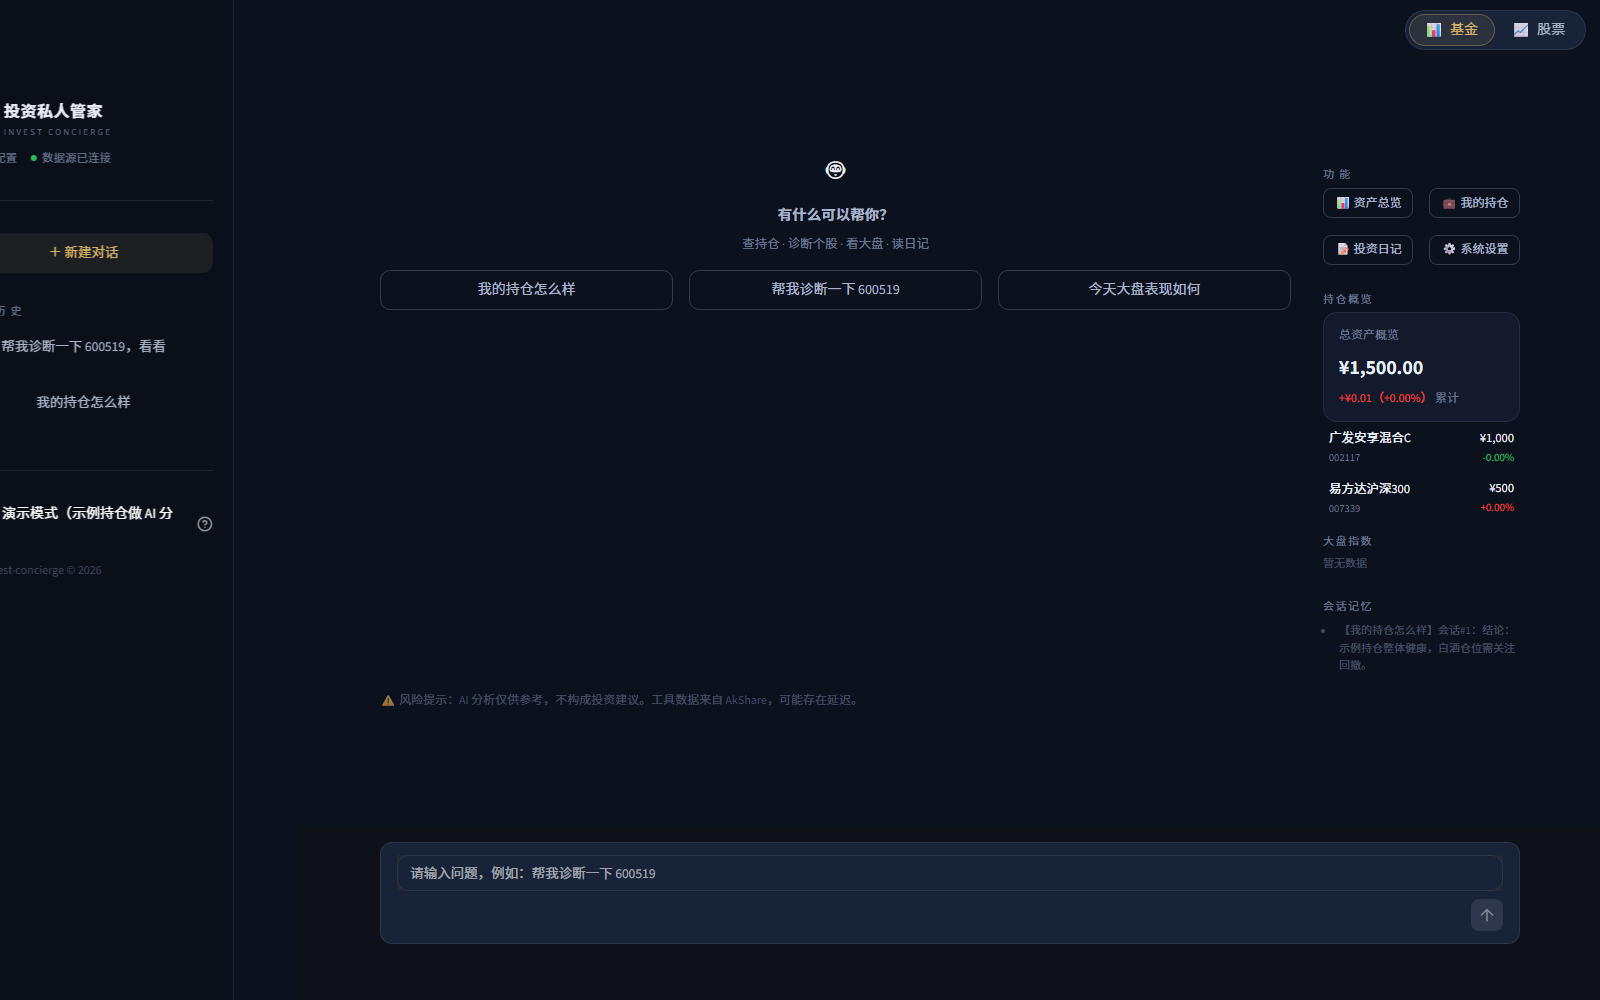
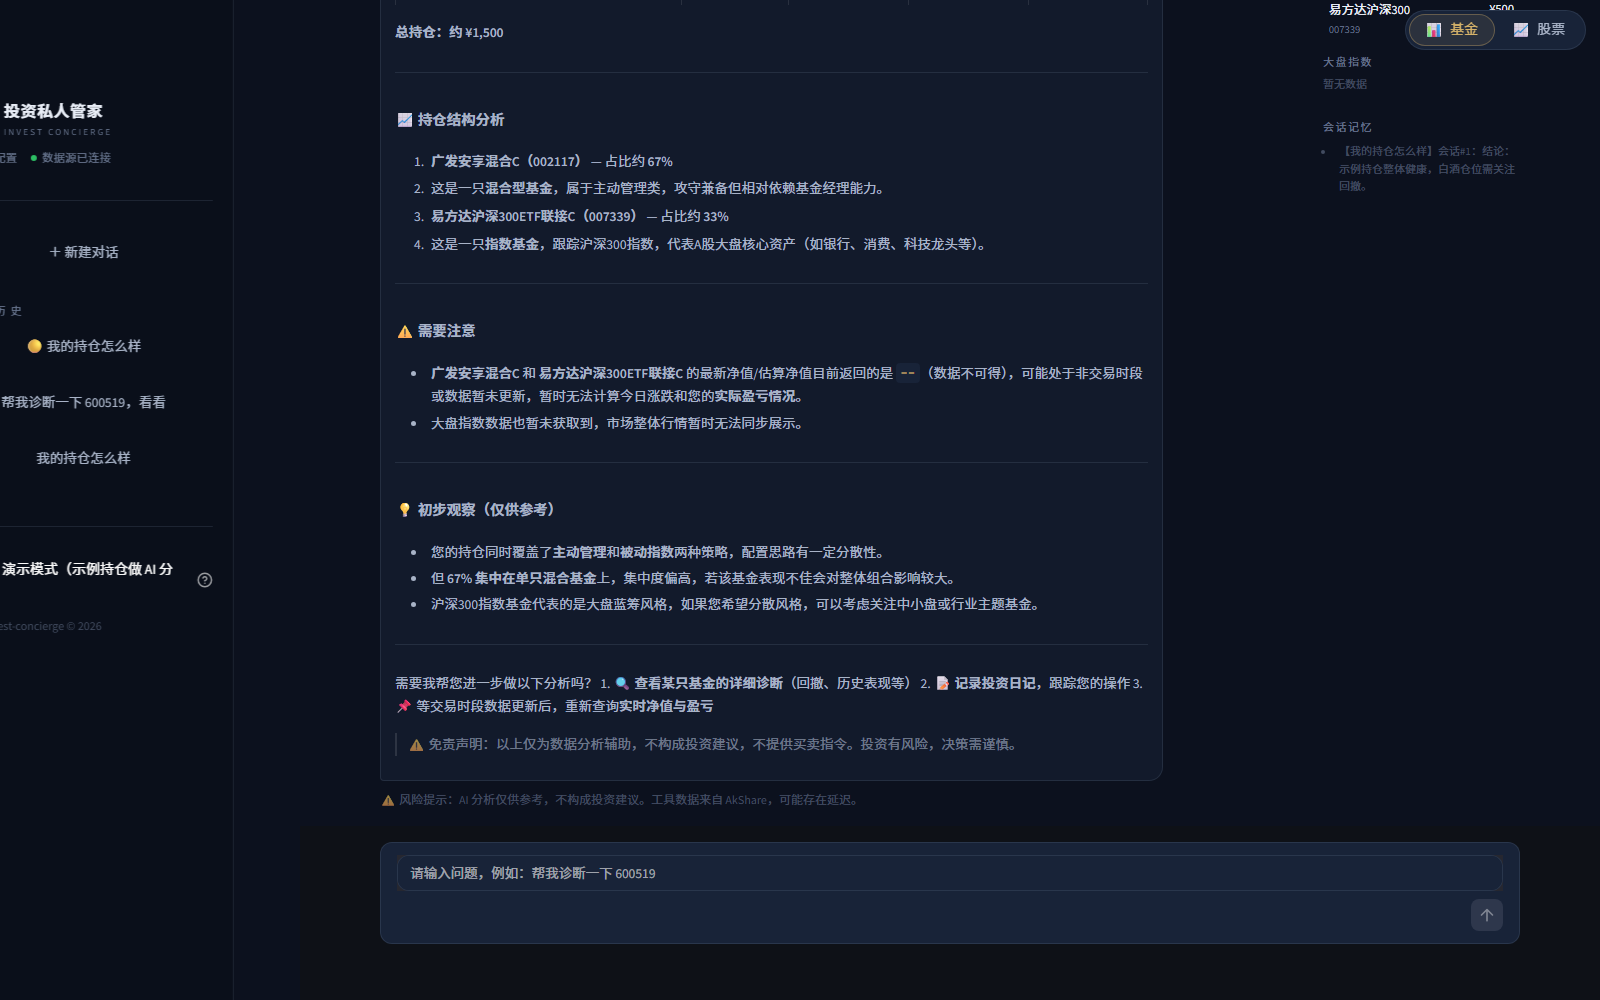
ui: 对话体验重做——去头像自绘气泡(user金色右对齐/agent左对齐,markdown渲染), agent_run新增on_progress回调+st.status实时思考链(规划轮次/工具调用逐事件更新,完成后折叠归档), 依赖补markdown>=3.4.0；CDP实测左右对齐/无头像/思考链T+5s起步T+50s完成

diff --git a/pages/ai_chat.py b/pages/ai_chat.py
@@ -10,6 +10,7 @@ Agent 对话中心（Agent-first 主页面 · 打开即对话）
 - 无 Key 降级：引导卡 + 聊天框禁用，不崩溃
 - 演示模式：预置示例持仓（纯内存 seed）
 """
+import html as html_lib
 import json
 
 import streamlit as st
@@ -139,11 +140,52 @@ def _render_right_panel():
 # ==================== 消息渲染 ====================
 
 
+def _md_to_html(text):
+    """Markdown → HTML（agent 回复渲染进气泡用）；库缺失时降级纯文本"""
+    try:
+        import markdown
+        return markdown.markdown(text or "", extensions=["fenced_code", "tables"])
+    except Exception:  # noqa: BLE001 - 渲染降级，不阻塞
+        return html_lib.escape(text or "").replace("\n", "<br/>")
+
+
+def _render_msg(role, content):
+    """消息气泡：user 右对齐（金色调）/ assistant 左对齐——无头像的聊天布局"""
+    content = str(content or "")
+    if role == "user":
+        st.markdown(
+            '<div class="msg-row msg-row-user"><div class="msg-bubble msg-user">{}</div></div>'.format(
+                html_lib.escape(content)),
+            unsafe_allow_html=True)
+    else:
+        st.markdown(
+            '<div class="msg-row msg-row-agent"><div class="msg-bubble msg-agent">{}</div></div>'.format(
+                _md_to_html(content)),
+            unsafe_allow_html=True)
+
+
+def _render_trace(payload):
+    """思考链折叠块（完成后持久保留在对话流里）：步骤时间线 + 工具输出"""
+    steps = payload.get("steps") or []
+    trace = payload.get("trace") or []
+    with st.expander("💭 思考链（{} 步 · {} 次工具调用）".format(len(steps), len(trace)), expanded=False):
+        for s in steps:
+            st.markdown(s)
+        if trace:
+            st.markdown("---")
+            for t in trace:
+                args_text = json.dumps(t.get("arguments") or {}, ensure_ascii=False)
+                st.markdown("**{}**　`{}`".format(t.get("name", ""), args_text))
+                st.code(str(t.get("output", ""))[:500], language="json")
+
+
 def _render_view():
     view = st.session_state.get("agent_view") or st.session_state.get("messages") or []
     for msg in view:
-        with st.chat_message(msg["role"]):
-            st.markdown(msg["content"])
+        if msg.get("role") == "trace":
+            _render_trace(msg.get("content") or {})
+        else:
+            _render_msg(msg["role"], msg["content"])
 
 
 def _render_no_key_guide():
@@ -172,41 +214,51 @@ def _render_no_key_guide():
 
 def _handle_prompt(prompt):
     st.session_state.messages.append({"role": "user", "content": prompt})
-    with st.chat_message("user"):
-        st.markdown(prompt)
+    _render_msg("user", prompt)
 
-    with st.chat_message("assistant"):
-        with st.spinner("Agent 规划与调用工具中…（多步查询约 30-90 秒）"):
-            try:
-                result = agent_run(
-                    prompt,
-                    memory=True,
-                    session_id=st.session_state.get("agent_session_id"),
-                    continue_question=True,
-                )
-            except Exception as e:
-                st.error("AI 响应失败：{}".format(e))
-                return
+    # 实时思考链：st.status 逐事件更新（规划轮次/工具调用/组织回答），不再让用户干等
+    steps = []
+
+    def _on_progress(stage, detail):
+        icon = {"thinking": "🧠", "tool": "🔧", "writing": "✍"}.get(stage, "•")
+        steps.append("{} {}".format(icon, detail))
+        try:
+            status.update(label="Agent 思考中…（已 {} 步）".format(len(steps)),
+                          state="running", expanded=True)
+        except Exception:  # noqa: BLE001 - 进度展示失败不影响主流程
+            pass
+        log.markdown("\n".join(steps))
+
+    try:
+        with st.status("Agent 规划中…（多步查询约 30-90 秒）", expanded=True) as status:
+            log = st.empty()
+            result = agent_run(
+                prompt,
+                memory=True,
+                session_id=st.session_state.get("agent_session_id"),
+                continue_question=True,
+                on_progress=_on_progress,
+            )
             if result.get("session_id"):
                 st.session_state.agent_session_id = result["session_id"]
+            status.update(label="✅ 完成——{} 步思考 · {} 次工具".format(
+                len(steps), len(result.get("tool_trace") or [])),
+                state="complete", expanded=False)
+    except Exception as e:
+        st.error("AI 响应失败：{}".format(e))
+        return
 
-            # 工具调用时间线（内联在回复上方；步数少时默认展开）
-            tool_trace = result.get("tool_trace") or []
-            if tool_trace:
-                with st.expander(
-                        "🔧 Agent 自主调用了 {} 次工具".format(len(tool_trace)),
-                        expanded=len(tool_trace) <= 3):
-                    for t in tool_trace:
-                        args_text = json.dumps(t.get("arguments") or {}, ensure_ascii=False)
-                        st.markdown("**{}**　`{}`".format(t.get("name", ""), args_text))
-                        st.code(str(t.get("output", ""))[:800], language="json")
-
-            response = result.get("content") or ""
-            if response:
-                st.markdown(response)
-                st.session_state.messages.append({"role": "assistant", "content": response})
-                if st.session_state.get("agent_view") is not None:
-                    st.session_state.agent_view = list(st.session_state.messages)
+    # Agent 回复 + 思考链归档：trace 折叠块在气泡之前，完成后随视图持久保留
+    response = result.get("content") or ""
+    tool_trace = result.get("tool_trace") or []
+    if response:
+        trace_msg = {"role": "trace", "content": {"steps": list(steps), "trace": tool_trace}}
+        st.session_state.messages.append(trace_msg)
+        st.session_state.messages.append({"role": "assistant", "content": response})
+        if st.session_state.get("agent_view") is not None:
+            st.session_state.agent_view = list(st.session_state.messages)
+        _render_trace(trace_msg["content"])
+        _render_msg("assistant", response)
 
 
 # ==================== 主流程 ====================

diff --git a/ui_components/styles.py b/ui_components/styles.py
@@ -483,11 +483,49 @@ def inject_global_css() -> None:
     }
 
     /* ===== 聊天 ===== */
+    /* 去头像：st.chat_message 自带的 avatar 区一律隐藏（对话中心用自绘气泡，无头像） */
+    [data-testid="stChatMessageAvatar"] {
+        display: none !important;
+    }
+    [data-testid="stChatMessage"] [data-testid="stChatMessageContent"] {
+        width: 100% !important;
+    }
     [data-testid="stChatMessage"] {
         background: var(--surface);
         border: 1px solid var(--line);
         border-radius: 14px;
     }
+
+    /* ===== 对话中心消息气泡（无头像：user 右对齐金色 / agent 左对齐表面色） ===== */
+    .msg-row { display: flex; margin: 10px 0; }
+    .msg-row-user { justify-content: flex-end; }
+    .msg-row-agent { justify-content: flex-start; }
+    .msg-bubble {
+        max-width: 86%;
+        padding: 10px 14px;
+        border-radius: 14px;
+        font-size: 13.5px;
+        line-height: 1.75;
+    }
+    .msg-user {
+        background: var(--gold-soft);
+        border: 1px solid var(--gold-line);
+        color: var(--text-1);
+        border-bottom-right-radius: 4px;
+        white-space: pre-wrap;
+    }
+    .msg-agent {
+        background: var(--surface);
+        border: 1px solid var(--line);
+        color: var(--text-2);
+        border-bottom-left-radius: 4px;
+    }
+    .msg-agent p { margin: .3em 0; }
+    .msg-agent h1, .msg-agent h2, .msg-agent h3 { font-size: 14.5px; margin: .6em 0 .3em; }
+    .msg-agent table { font-size: 12.5px; }
+    .msg-agent code { font-size: 12px; }
+    .msg-agent pre { overflow-x: auto; }
+    .msg-agent ul, .msg-agent ol { padding-left: 1.2em; margin: .3em 0; }
     [data-testid="stChatInput"] textarea, [data-testid="stChatInput"] > div {
         background: var(--surface-2) !important;
         border: 1px solid var(--line) !important;
